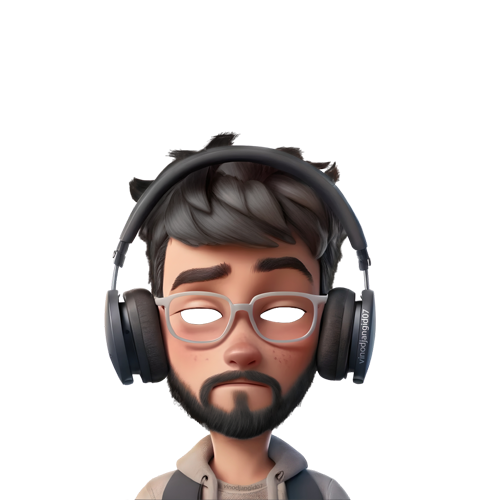
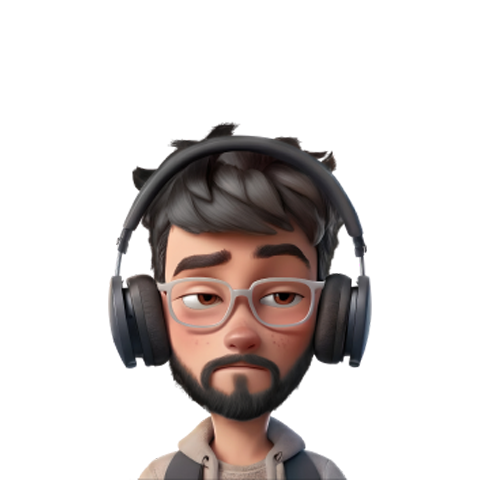
footer Update

diff --git a/main.js b/main.js
@@ -131,14 +131,10 @@ document.addEventListener("contextmenu", function(e){
 
 
 let footerPupils = document.getElementsByClassName('footer-pupil');
-let pupils = document.getElementsByClassName('pupil');
-let pupilsArr = Array.from(pupils);
 let footerpupilsArr = Array.from(footerPupils);
 // console.log(pupils);
 
-let pupilStartPoint = -1;
 let footerpupilStartPoint = -10;
-let pupilRange = 2.5;
 let footerpupilRange = 18;
 
 // mouse X 
@@ -161,16 +157,11 @@ const mouseMove = (event) => {
 
     currentYPosition = event.clientY;
     fracYValue = currentYPosition / mouseYEndPoint;
-    // nav
-    let pupilXCurrrentPosition = pupilStartPoint + (fracXValue * pupilRange);
-    let pupilYCurrrentPosition = pupilStartPoint + (fracYValue * pupilRange);
+ 
     // footer
     let footerpupilXCurrrentPosition = footerpupilStartPoint + (fracXValue * footerpupilRange);
     let footerpupilYCurrrentPosition = footerpupilStartPoint + (fracYValue * footerpupilRange);
-// nav
-    pupilsArr.forEach((curPupil) => {
-        curPupil.style.transform= `translate(${pupilXCurrrentPosition}px, ${pupilYCurrrentPosition}px)`;
-    })
+
     // footer
     footerpupilsArr.forEach((footercurPupil) => {
       footercurPupil.style.transform= `translate(${footerpupilXCurrrentPosition}px, ${footerpupilYCurrrentPosition}px)`;
@@ -188,17 +179,3 @@ const windowResize = (event) => {
 window.addEventListener('mousemove', mouseMove);
 window.addEventListener('resize', windowResize);
 
-
-window.addEventListener('scroll', function() {
-  var footer = document.getElementById('footer');
-  var rect = footer.getBoundingClientRect();
-  var isVisible = (rect.top <= window.innerHeight) && (rect.bottom >= 0);
-  if (isVisible) {
-    document.querySelector('.logo').classList.add('teleport-avatar');
-    document.querySelector('.footer-avatar-container').classList.add('big-teleport-avatar');
-  }
-  else{
-    document.querySelector('.logo').classList.remove('teleport-avatar');
-    document.querySelector('.footer-avatar-container').classList.remove('big-teleport-avatar');
-  }
-});

diff --git a/index.html b/index.html
@@ -93,10 +93,6 @@ What are you doing here?! you sneaky developer...
 
                 <div class="logo-top">
                     <img src="src/png/nav-avatar.png" alt="animation-head">
-                <div class="face">
-                    <div class="eye left-eye"><div class="pupil"></div></div>
-                    <div class="eye right-eye"><div class="pupil"></div></div>
-                </div>
             </div>
                 
                 

diff --git a/style.css b/style.css
@@ -1430,15 +1430,8 @@ footer{
     display: flex;
     align-items: flex-end;
     justify-content: center;
-    transform: translateY(100%);
-    transition: all .4s;
 }
-.teleport-avatar{
-    transform: translateY(100%);
-}
-.big-teleport-avatar{
-    transform: translateY(0%);
-}
+
 .footer-avatar-img{
     width: 100%;
     z-index:2;
